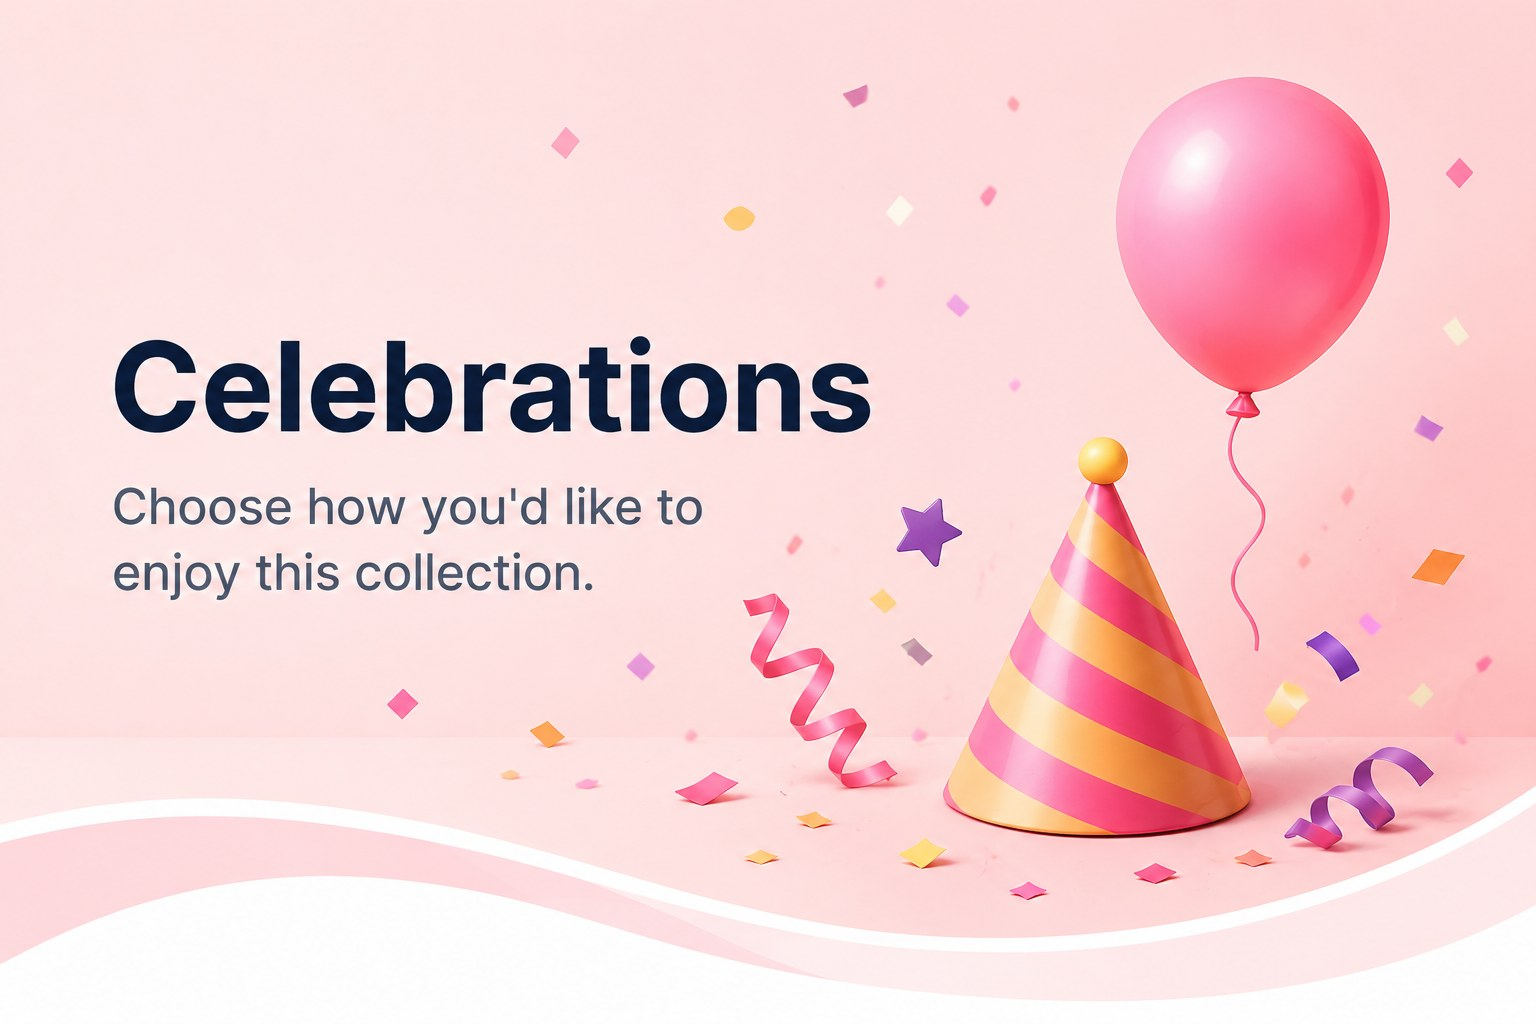
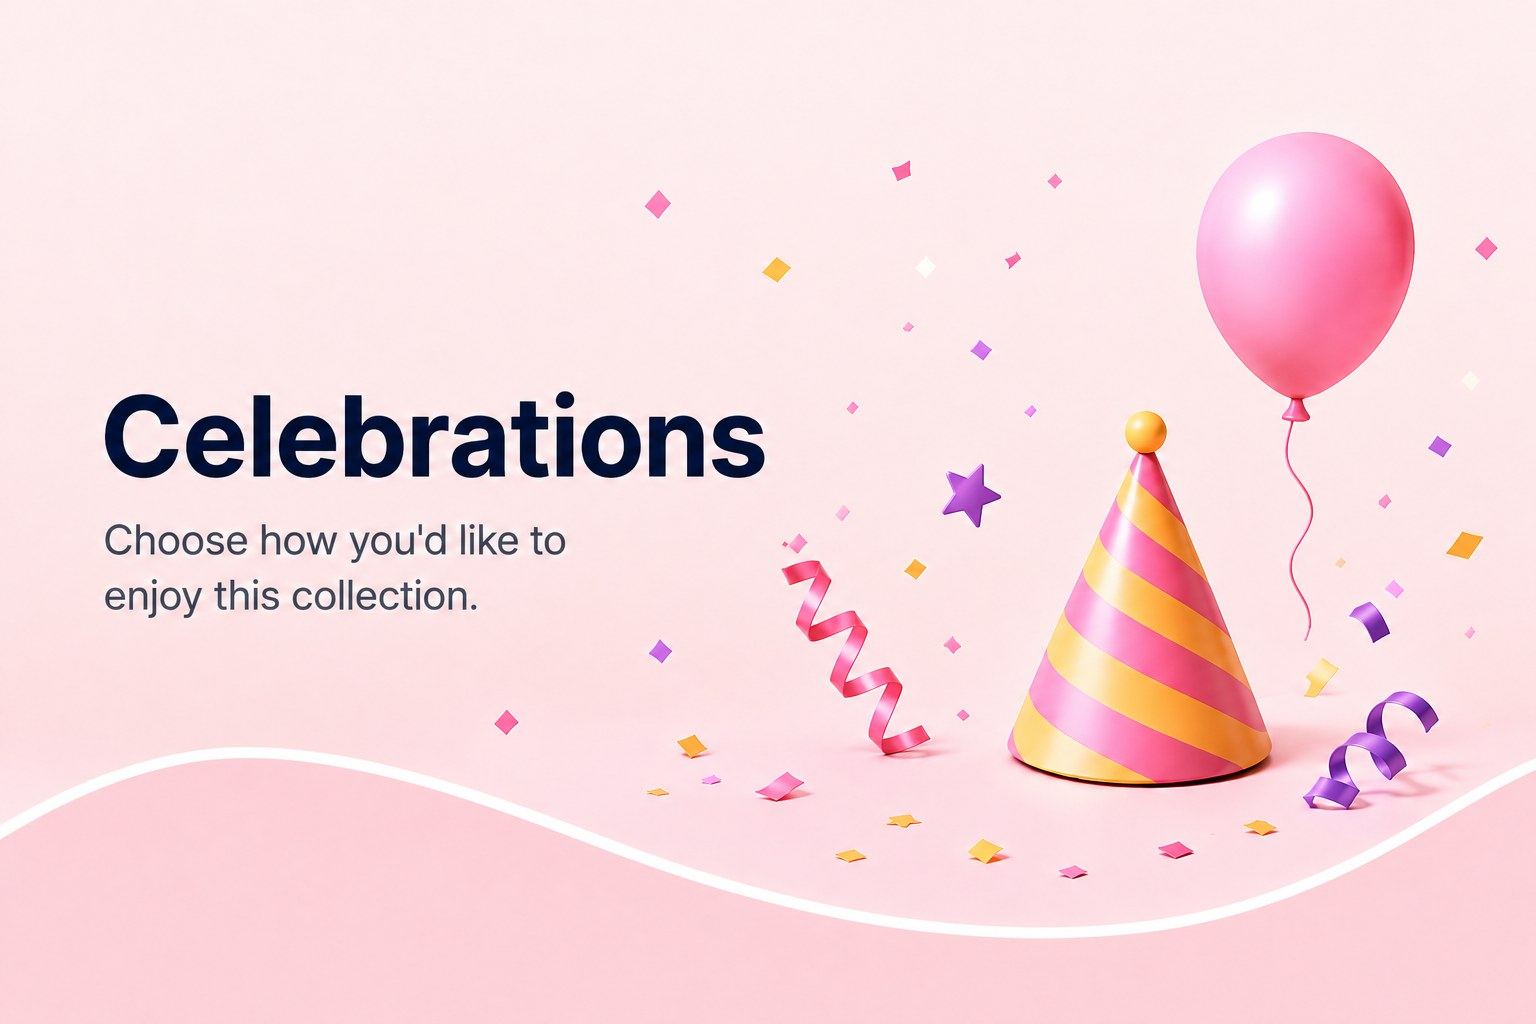
Replace Gallery Celebrations chooser hero photo with new balloon/confetti image (converted PNG to JPG)

diff --git a/sw.js b/sw.js
@@ -1,4 +1,4 @@
-const CACHE_NAME = "family-memories-v59";
+const CACHE_NAME = "family-memories-v60";
 const APP_SHELL = [
   "./",
   "./index.html",
